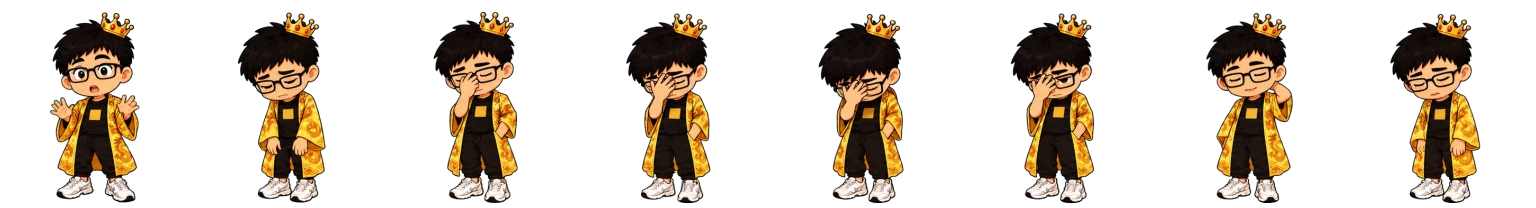
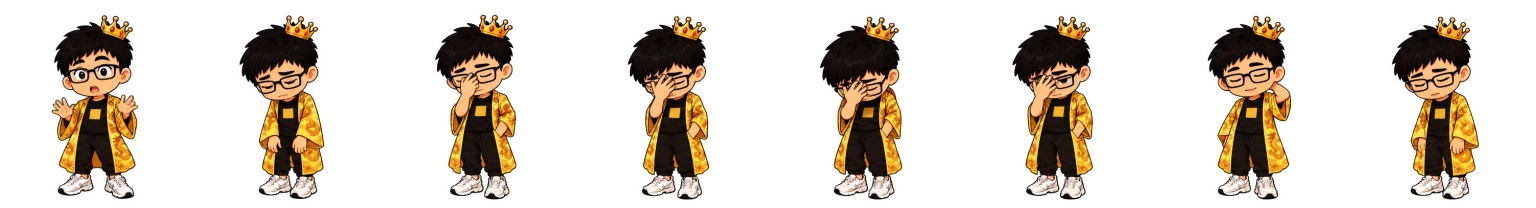
feat(pet): 小单's white sticker outline on both outfits (BRD-03)
The new strips now carry the same outline as assets/desktop-pet/xiaodan, so
the black hair and clothes read on a dark desktop. Measured on the 小单
strips at cell scale: 3.6 px from the art's edge to the outer half-alpha
edge, colour (253, 253, 253). slice-pet-keyframes.mjs adds it after scaling
as a round dilation of the silhouette drawn under the character, with an
anti-aliased rim; gaps narrower than about 7 px (arm to body, a lens past
the face) fill white as on 小单.

The bottom of the outline sits on 小单's ground row (202), so the feet stand
one outline width above it. The shared body size shrinks so the robe's
cheer jump still fits with its outline: everyday idle is 175 px, 182 px
with the outline (小单: 198 px with outline).

diff --git a/assets/desktop-pet/xiaodan-daily/README.md b/assets/desktop-pet/xiaodan-daily/README.md
@@ -17,16 +17,19 @@ these strips, together with the dragon-robe outfit in `../xiaodan-robe`.
   208 tall, with the frame counts of `SPRITES`.
 - WebP, quality 90 with lossless alpha (Chromium's encoder, which adds an
   sRGB ICC chunk).
+- 小单's white sticker outline: 3.6 px of (253, 253, 253) around the
+  silhouette, a round dilation drawn under the character with an
+  anti-aliased rim. Gaps narrower than about 7 px (between an arm and the
+  body, a lens that sticks out past the face) fill white, as on 小单.
 - One body size for every strip of both outfits, so switching outfit or
   action never resizes the character. Standing, the everyday character is
-  181 px tall (小单's idle: 198 px including its white sticker outline). It
-  is no larger because the robe's cheer jump (crown and raised arm) must
-  still fit the cell.
-- Feet on row 202, 小单's ground row. A strip's ground is its lowest foot,
-  so jumps keep their height above it. Standing strips are centred on the
-  feet, the others on the body's mass.
-- Unlike 小单 there is no white sticker outline; the black hair and clothes
-  have little contrast on a dark desktop.
+  175 px tall, 182 px with its outline (小单's idle: 198 px with its
+  outline). It is no larger because the robe's cheer jump (crown and raised
+  arm) must still fit the cell, outline included.
+- The bottom of the outline is on row 202, 小单's ground row, so the feet
+  stand one outline width above it, as 小单's do. A strip's ground is its
+  lowest foot, so jumps keep their height above it. Standing strips are
+  centred on the feet, the others on the body's mass.
 
 ## Strips
 

diff --git a/assets/desktop-pet/xiaodan-robe/README.md b/assets/desktop-pet/xiaodan-robe/README.md
@@ -17,15 +17,19 @@ these strips, together with the everyday outfit in `../xiaodan-daily`.
   208 tall, with the frame counts of `SPRITES`.
 - WebP, quality 90 with lossless alpha (Chromium's encoder, which adds an
   sRGB ICC chunk).
+- 小单's white sticker outline: 3.6 px of (253, 253, 253) around the
+  silhouette, crown included, a round dilation drawn under the character
+  with an anti-aliased rim. Gaps narrower than about 7 px fill white, as on
+  小单.
 - The body is exactly as big as in `../xiaodan-daily` (one size for every
   strip of both outfits, measured to the top of the hair, so the crown sits
   on top): switching outfit never resizes the character. The crown and the
-  third cheer frame (jumping, one arm up) are what set that size: that frame
-  reaches row 1 of the cell.
-- Feet on row 202, 小单's ground row. A strip's ground is its lowest foot,
-  so jumps keep their height above it. Standing strips are centred on the
-  feet, the others on the body's mass.
-- Unlike 小单 there is no white sticker outline.
+  third cheer frame (jumping, one arm up) are what set that size: with its
+  outline that frame reaches row 1 of the cell.
+- The bottom of the outline is on row 202, 小单's ground row, so the feet
+  stand one outline width above it, as 小单's do. A strip's ground is its
+  lowest foot, so jumps keep their height above it. Standing strips are
+  centred on the feet, the others on the body's mass.
 
 ## Strips
 
